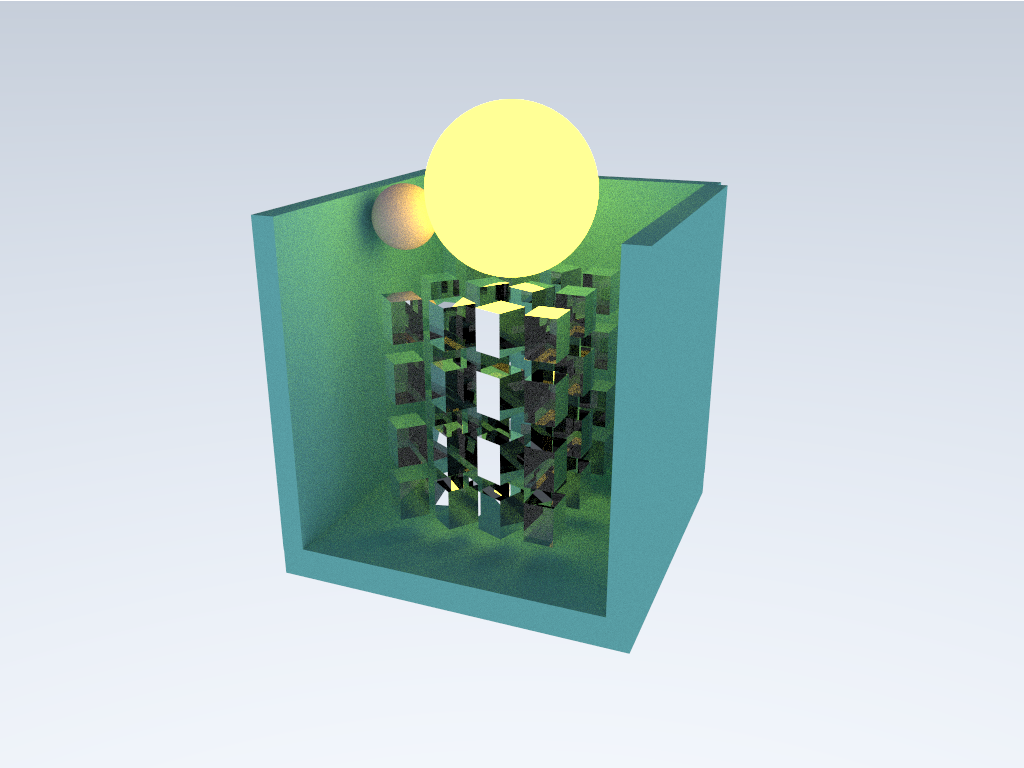
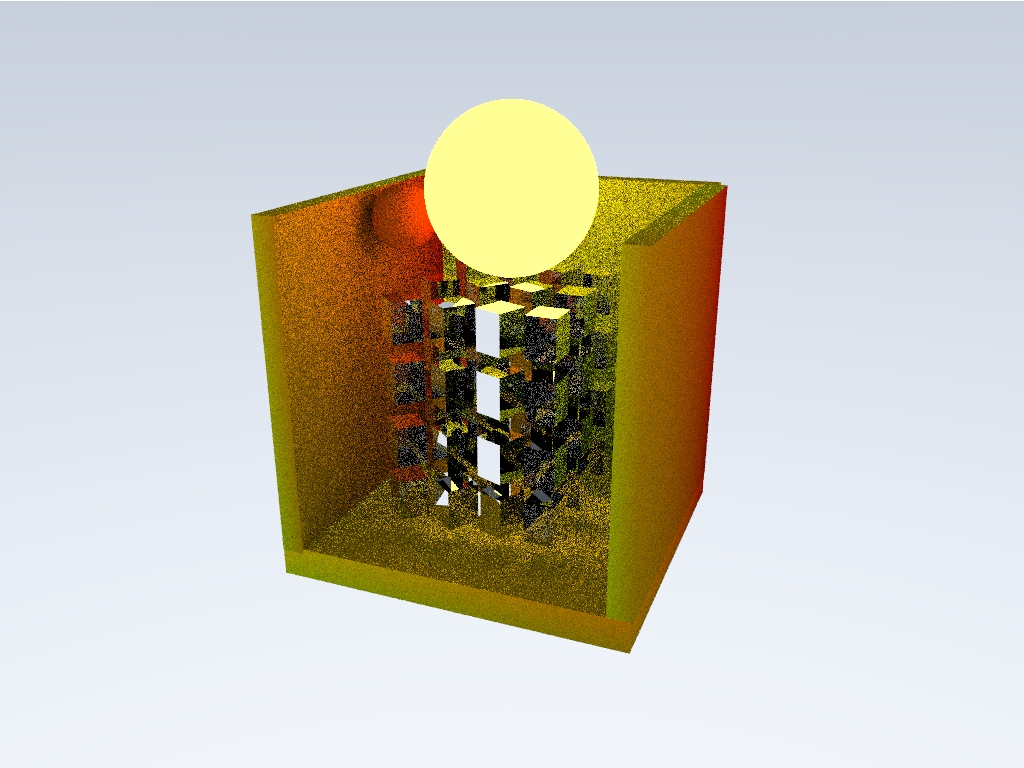
fix obj loader compute bary coords and interpolate uvs using them.

Changed region(s): [[0.2188, 0.2188, 0.7188, 0.875]]

diff --git a/rtCLI/main.go b/rtCLI/main.go
@@ -145,6 +145,27 @@ func ConvertColor(color core.Col3, samples int) color.RGBA {
 	return final
 }
 
+func AddTrisToScene(scene *[]core.Hittable, mesh *core.Mesh, mat core.Material) {
+	for _, face := range mesh.Faces {
+		verts := [3]core.Vec3{}
+		uvs := [3]core.Vec3{}
+		norms := [3]core.Vec3{}
+		verts[0] = mesh.Verts[face.VertIndicies[0]-1]
+		verts[1] = mesh.Verts[face.VertIndicies[1]-1]
+		verts[2] = mesh.Verts[face.VertIndicies[2]-1]
+
+		uvs[0] = mesh.TexCoords[face.TexCoordIndicies[0]-1]
+		uvs[1] = mesh.TexCoords[face.TexCoordIndicies[1]-1]
+		uvs[2] = mesh.TexCoords[face.TexCoordIndicies[2]-1]
+
+		norms[0] = mesh.Normals[face.NormalIndicies[0]-1]
+		norms[1] = mesh.Normals[face.NormalIndicies[1]-1]
+		norms[2] = mesh.Normals[face.NormalIndicies[2]-1]
+
+		*scene = append(*scene, &core.Triangle{Verts: verts[:], UVs: uvs[:], Normals: norms[:], Material: mat})
+	}
+}
+
 func main() {
 	fmt.Println("let's raytrace something")
 
@@ -165,29 +186,18 @@ func main() {
 	fmt.Println("creating camera and image")
 	const imageWidth int = 1024
 	const imageHeight int = 768
-	const samplesPerPixel = 128
+	const samplesPerPixel = 8
 	const maxDepth = 5
 	img := image.NewRGBA(image.Rect(0, 0, imageWidth, imageHeight))
 	cam := core.NewCameraByPoints(core.Pt3{-2, 2, -5}, core.Pt3{0, 0, 0}, core.Vec3{0, 1, 0}, 45.0, 4.0/3.0)
 	meshbox := core.LoadMeshFromOBJAtPath("./static/walls.obj")
 
-	for _, face := range meshbox.Faces {
-		verts := [3]core.Vec3{}
-		verts[0] = meshbox.Verts[face.VertIndicies[0]-1]
-		verts[1] = meshbox.Verts[face.VertIndicies[1]-1]
-		verts[2] = meshbox.Verts[face.VertIndicies[2]-1]
-		scene = append(scene, &core.Triangle{Verts: verts[:], Material: &core.DiffuseMaterial{core.Vec3{.2, .6, .6}}})
-	}
+	var boxMat = core.DiffuseMaterial{core.Vec3{.2, .6, .6}}
+	AddTrisToScene(&scene, &meshbox, &boxMat)
 
 	meshcubes := core.LoadMeshFromOBJAtPath("./static/glasscubes.obj")
 
-	for _, face := range meshcubes.Faces {
-		verts := [3]core.Vec3{}
-		verts[0] = meshcubes.Verts[face.VertIndicies[0]-1]
-		verts[1] = meshcubes.Verts[face.VertIndicies[1]-1]
-		verts[2] = meshcubes.Verts[face.VertIndicies[2]-1]
-		scene = append(scene, &core.Triangle{Verts: verts[:], Material: &core.RefractiveMaterial{1.5}})
-	}
+	AddTrisToScene(&scene, &meshcubes, &core.RefractiveMaterial{1.5})
 
 	bvhForScene := core.NewBVHNode(&scene, 0, len(scene))
 	scene = []core.Hittable{&bvhForScene}

diff --git a/core/loader_obj.go b/core/loader_obj.go
@@ -16,8 +16,10 @@ type FaceData struct {
 }
 
 type Mesh struct {
-	Faces []FaceData
-	Verts []Vec3
+	Faces     []FaceData
+	Verts     []Vec3
+	TexCoords []Vec3
+	Normals   []Vec3
 }
 
 func LoadMeshFromOBJAtPath(path string) Mesh {
@@ -41,6 +43,15 @@ func LoadMeshFromOBJAtPath(path string) Mesh {
 			y, _ := strconv.ParseFloat(chunk[2], 0)
 			z, _ := strconv.ParseFloat(chunk[3], 0)
 			mesh.Verts = append(mesh.Verts, Vec3{x, y, z})
+		} else if chunk[0] == "vt" {
+			u, _ := strconv.ParseFloat(chunk[1], 0)
+			v, _ := strconv.ParseFloat(chunk[2], 0)
+			mesh.TexCoords = append(mesh.TexCoords, Vec3{u, v, 0})
+		} else if chunk[0] == "vn" {
+			x, _ := strconv.ParseFloat(chunk[1], 0)
+			y, _ := strconv.ParseFloat(chunk[2], 0)
+			z, _ := strconv.ParseFloat(chunk[3], 0)
+			mesh.Normals = append(mesh.Normals, Vec3{x, y, z})
 		}
 	}
 
@@ -75,9 +86,9 @@ func LoadTrisFromOBJatPath(path string) []FaceData {
 					switch dataTypeIndex {
 					case 0:
 						currentFace.VertIndicies = append(currentFace.VertIndicies, int(actualIndexValue))
-					case 1:
-						currentFace.NormalIndicies = append(currentFace.NormalIndicies, int(actualIndexValue))
 					case 2:
+						currentFace.NormalIndicies = append(currentFace.NormalIndicies, int(actualIndexValue))
+					case 1:
 						currentFace.TexCoordIndicies = append(currentFace.TexCoordIndicies, int(actualIndexValue))
 					}
 				}

diff --git a/core/sphere.go b/core/sphere.go
@@ -92,6 +92,11 @@ func (tri *Triangle) Hit(ray *Ray, tmin float64, tmax float64, record *HitRecord
 		record.Normal = norm
 		record.CalculateIfHitIsFrontFacing(ray)
 		record.HitMaterial = *&tri.Material
+		var u, v, w = BaryCoords(record, tri.Verts[0], tri.Verts[1], tri.Verts[2])
+		//use u v w to interpolate u v coords.
+		record.U = tri.UVs[0].X*u + tri.UVs[1].X*v + tri.UVs[2].X*w
+		record.V = tri.UVs[0].Y*u + tri.UVs[1].Y*v + tri.UVs[2].Y*w
+
 		return true
 	}
 	return false
@@ -125,4 +130,27 @@ func (tri *Triangle) BoundingBox(outAABB *AABB) {
 
 	*outAABB = AABB{Pt3{minx - offset, miny - offset, minz - offset}, Pt3{maxx + offset, maxy + offset, maxz + offset}}
 
+}
+
+func BaryCoords(hit *HitRecord, v0 Vec3, v1 Vec3, v2 Vec3) (float64, float64, float64) {
+
+	var p = hit.Hitpoint
+	var v0v1 = v1.Subtract(v0)
+	var v0v2 = v2.Subtract(v0)
+	var triN = Cross(v0v1, v0v2)
+	var area2 = triN.Length()
+
+	var edge1 = v2.Subtract(v1)
+	var vp1 = p.Subtract(v1)
+	var c = Cross(edge1, vp1)
+
+	var u = c.Length() / area2
+
+	var edge2 = v0.Subtract(v2)
+	var vp2 = p.Subtract(v2)
+	c = Cross(edge2, vp2)
+	var v = c.Length() / area2
+
+	var w = 1 - u - v
+	return u, v, w
 }

diff --git a/core/material.go b/core/material.go
@@ -1,5 +1,17 @@
 package core
 
+type Texture interface {
+	Value(u float64, v float64, point *Pt3) Col3
+}
+
+type SolidTexture struct {
+	color Col3
+}
+
+func (st *SolidTexture) Value(u float64, v float64, point *Pt3) Col3 {
+	return st.color
+}
+
 type Material interface {
 	Scatter(rayIn *Ray, hitRecord *HitRecord, attenuation *Col3, scatteredRay *Ray) bool
 }
@@ -16,6 +28,6 @@ func (mat *DiffuseMaterial) Scatter(rayIn *Ray, hitRecord *HitRecord, attenuatio
 		scatterDirection = norm
 	}
 	*scatteredRay = NewRay(hitRecord.Hitpoint, scatterDirection)
-	*attenuation = *&mat.Albedo
+	*attenuation = Vec3{hitRecord.U, hitRecord.V, 0} //*&mat.Albedo
 	return true
 }
